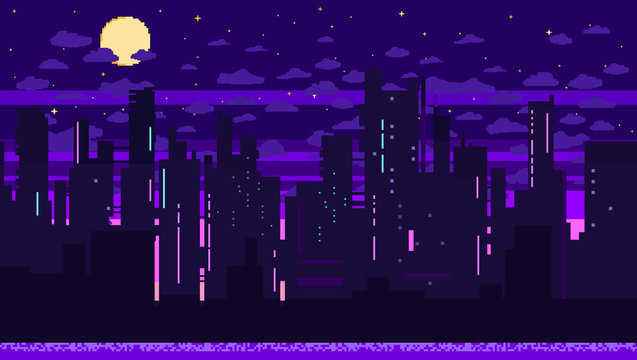
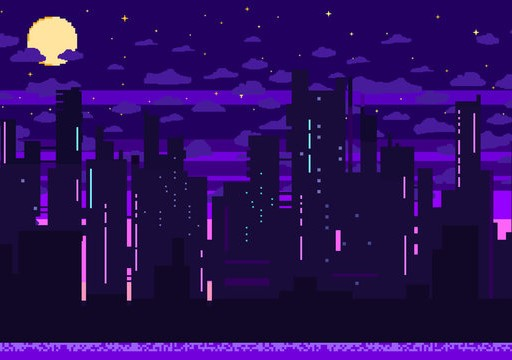
Fix:Map initiate, map changes.
Map initiate is van script aangepast. Het spawnt nu 1x 10x

Map is veranderd omdat de foto kleiner moest

diff --git a/Assets/Script/MapInstantiate.cs b/Assets/Script/MapInstantiate.cs
@@ -1,0 +1,47 @@
+using System.Collections;
+using System.Collections.Generic;
+using UnityEngine;
+
+public class MapInstantiate : MonoBehaviour
+{
+    [SerializeField] GameObject map;
+    [SerializeField] GameObject mapTwo;
+    [SerializeField] GameObject mapThree;
+    [SerializeField] int mapLocation;
+    float locationChanger = 0;
+    void Start()
+    {
+        for (int i = 0; i < 10; i++)
+        {
+            int randomNumber = Random.Range(1, 4);
+            switch (randomNumber)
+            {
+                case 1:
+                    Vector2 mapPosition = new Vector2(locationChanger, 0.0f);
+                    locationChanger = locationChanger + mapLocation;
+                    Instantiate(map, mapPosition, Quaternion.identity);
+                    break;
+
+                case 2:
+                    mapPosition = new Vector2(locationChanger, 0.0f);
+                    locationChanger = locationChanger + mapLocation;
+                    Instantiate(mapTwo, mapPosition, Quaternion.identity);
+                    break;
+                case 3:
+                    mapPosition = new Vector2(locationChanger, 0.0f);
+                    locationChanger = locationChanger + mapLocation;
+                    Instantiate(mapThree, mapPosition, Quaternion.identity);
+                    break;
+
+
+            }
+        }
+    }
+
+    // Update is called once per frame
+    void Update()
+    {
+      
+       
+    }
+}
